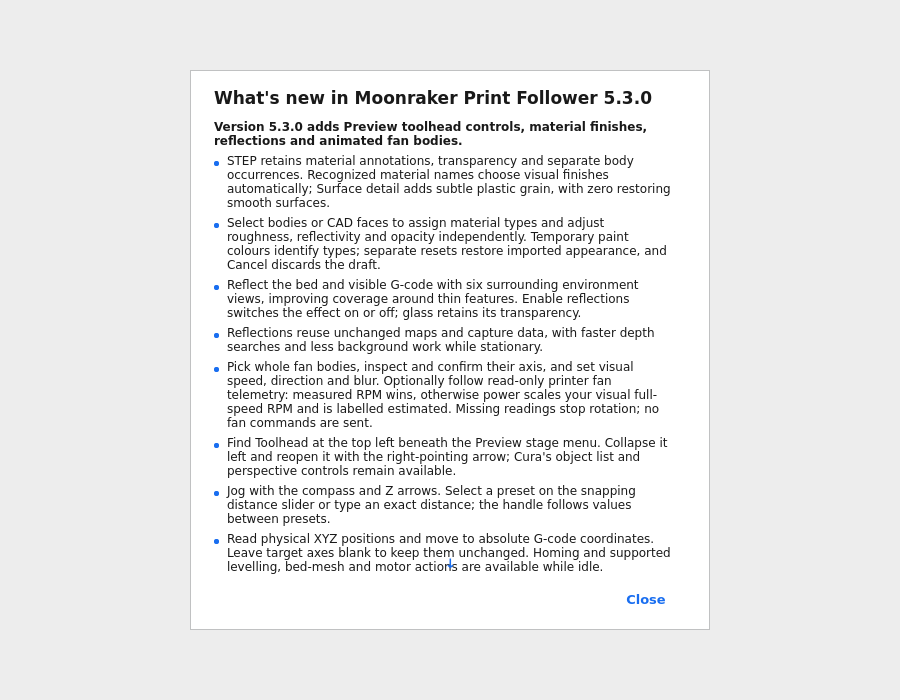
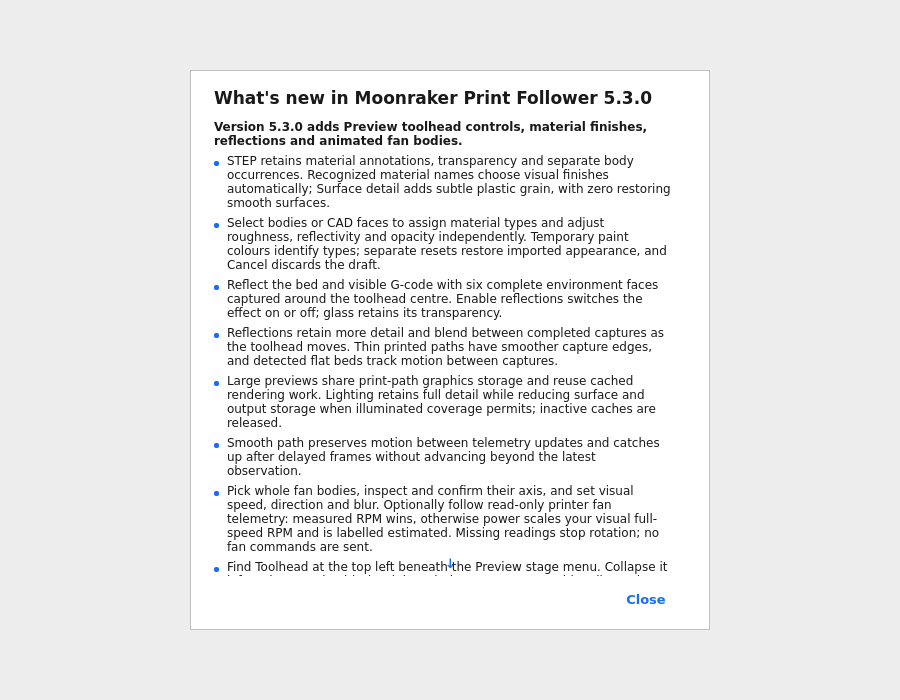
Refresh canonical 5.3.0 screenshots and validation record

Changed region(s): [[0.2489, 0.39, 0.7467, 0.84]]

diff --git a/docs/TESTING.md b/docs/TESTING.md
@@ -9,8 +9,11 @@ confirmed one shared full index buffer and a smaller output while following the
 large print; these are storage estimates, not FPS or driver-residency claims.
 The final measured `make all JOBS=2` passed 5,973 tests, 97.8% total statement
 coverage, every required file above 95%, nine lint steps, screenshot determinism
-and verified packages. The canonical Linux screenshot refresh and cross-platform
-CI confirmation remain the final branch checks. Both package manifests and the current What's New entry use 5.3.0.
+and verified packages. CI run `38248913949` regenerated all 29 canonical Linux
+PNGs from commit `48fdc0f1`; its 25 capture scenes were byte-identical across
+two runs. Only the What's New image changed, and it was visually inspected
+before promotion. Cross-platform CI confirmation remains the final branch
+check. Both package manifests and the current What's New entry use 5.3.0.
 
 Cross-driver GL checks distinguish storage/coverage failures from numerical
 rounding. Depth, material category, alpha and pixels outside foreground clips
